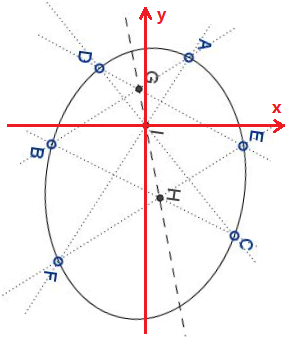
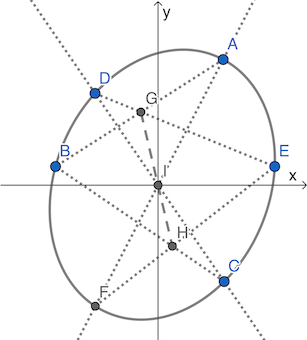
draw diagrams in GeoGebra

diff --git a/pascal.md b/pascal.md
@@ -1,6 +1,6 @@
 <img src="diagrams/pascal.png">
 
-**Pascal's theorem** states that if six arbitrary points are chosen on a conic and joined by line segments in any order (here we choose *A→B→C→D→E→F*) to form a hexagon, then the three pairs of opposite sides (*AB DE*, *BC EF* and *CD AF*) of the hexagon meet at three points (*G*, *H* and *I*) which lie on a straight line. <sup>[1]</sup>
+**Pascal's theorem** states that if six arbitrary points are chosen on a conic and joined by line segments in any order (here we choose *A→B→C→D→E→F*) to form a hexagon, then the three pairs of opposite sides (*AB DE*, *BC EF* and *CD AF*) of the hexagon meet at three points (*G*, *H* and *I*) which lie on a straight line.
 
 ### About SymPy
 
@@ -42,7 +42,7 @@ Assume the conic is <img src="https://latex.codecogs.com/gif.latex?x^2+y^2-1=0">
 
 #### Step 2
 
-Without further simplification, SymPy can hardly solve the intersections G and H. (This may be due to too many calculations during cancellation of <img src="https://latex.codecogs.com/gif.latex?\sqrt{x}^2"> and *x*.<sup>[2]</sup> I don't know if Mathematica or other alternatives can do this.) So we need to replace all square roots with:
+Without further simplification, SymPy can hardly solve the intersections G and H. (This may be due to too many calculations during cancellation of <img src="https://latex.codecogs.com/gif.latex?\sqrt{x}^2"> and *x*.<sup>[1]</sup> I don't know if Mathematica or other alternatives can do this.) So we need to replace all square roots with:
 
 <img src="https://latex.codecogs.com/gif.latex?\begin{cases}P=\sqrt{-4af-4bfg-4cfg^2+d^2+2deg+e^2g^2}\\Q=\sqrt{-4af-4bfh-4cfh^2+d^2+2deh+e^2h^2}\\R=\sqrt{-4ack^2-4aek-4af+b^2k^2+2bdk+d^2}\end{cases}">
 
@@ -70,5 +70,4 @@ This can be done by replacing `P**2`, `Q**2` and `R**3` with `P2`, `Q2` and `R2*
 
 ### Notes
 
-1. Here we use the diagram from [Cut the Knot](https://www.cut-the-knot.org/Generalization/OverlookedPascal.shtml).
-2. More explanations can be found [here](https://docs.sympy.org/latest/tutorial/simplification.html).
+1. More explanations can be found [here](https://docs.sympy.org/latest/tutorial/simplification.html).
